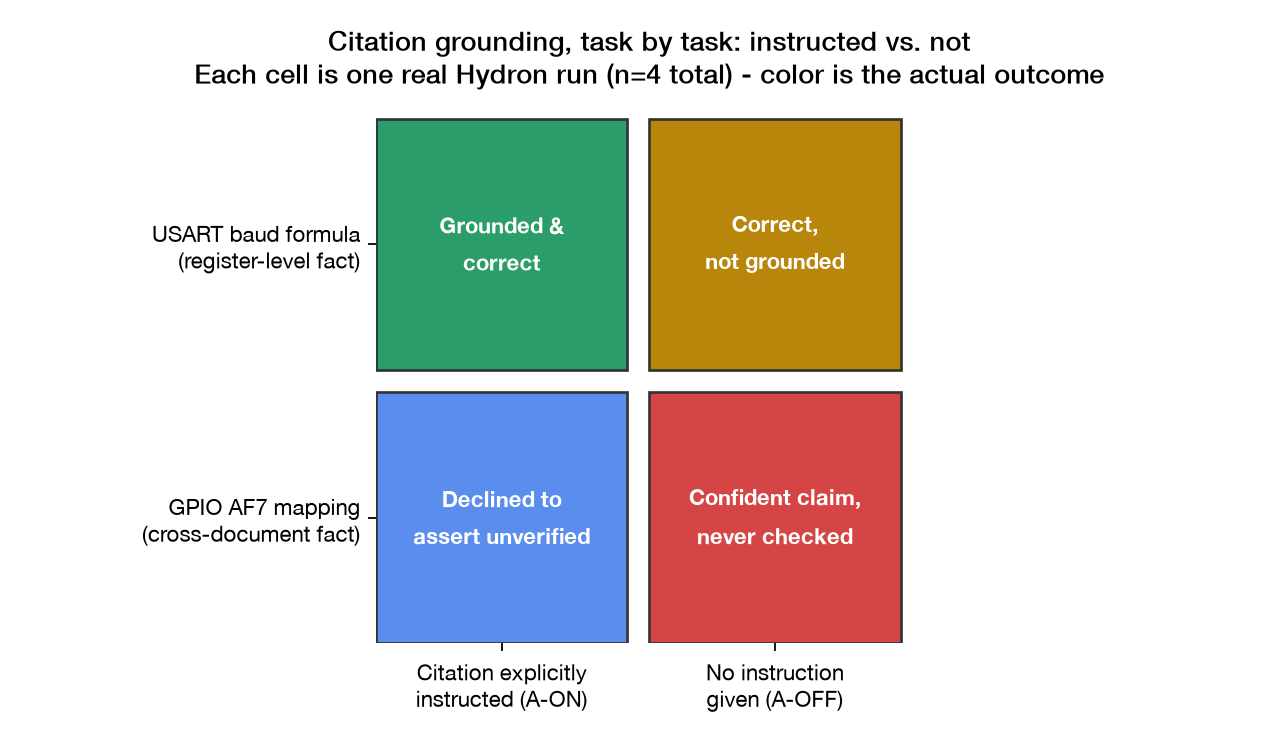
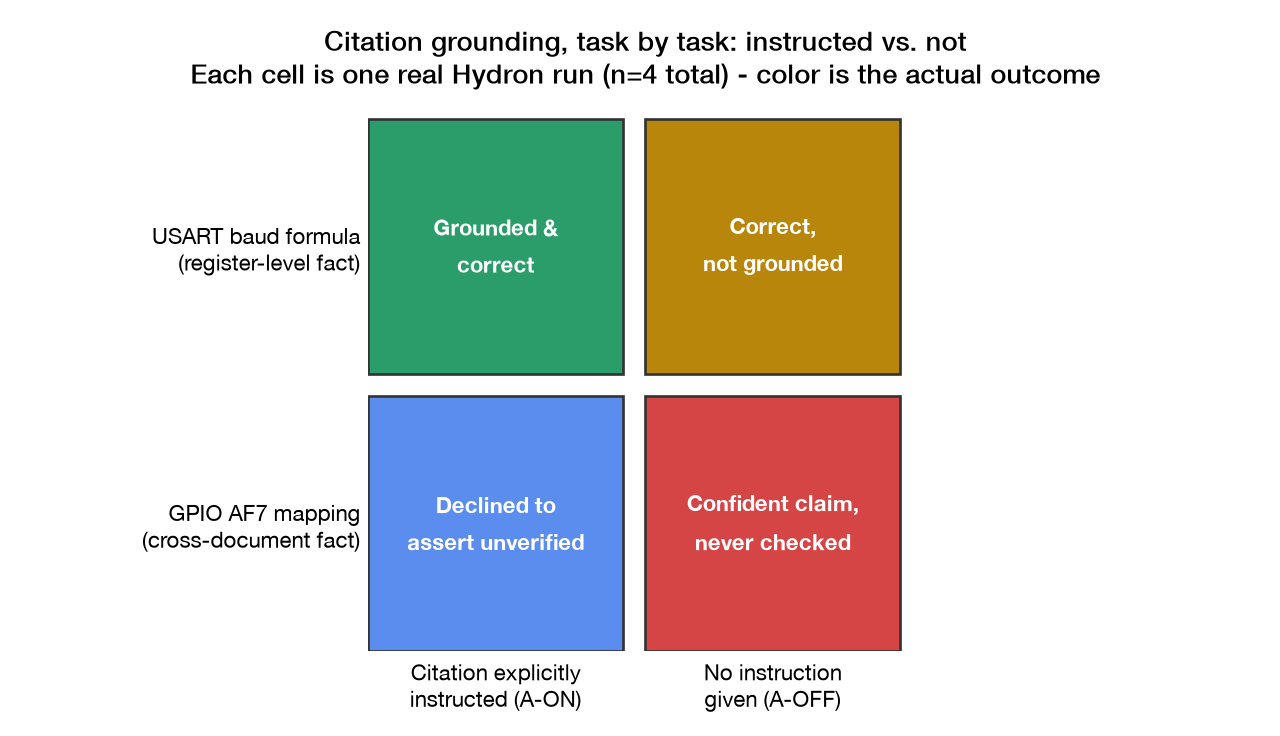
Fix plot legend and layout bugs found on review
Plot 3 had stray tick marks next to its row labels, plot 4's legend was
never rendered despite having labeled bars, and plot 5's legend overlapped
its own n= annotations. Also updates the gitignore comment that referenced
the now-removed figure.png.

Changed region(s): [[0.0938, 0.1562, 0.7188, 0.9688], [0.125, 0.0312, 0.875, 0.125], [0.3438, 0.2812, 0.4375, 0.375]]

diff --git a/stm32-pilot/results/make_plots.py b/stm32-pilot/results/make_plots.py
@@ -22,6 +22,7 @@ from collections import Counter, defaultdict
 import matplotlib
 matplotlib.use("Agg")
 import matplotlib.pyplot as plt
+from matplotlib.patches import Patch
 
 SCRIPT_DIR = os.path.dirname(os.path.abspath(__file__))
 PILOT_ROOT = os.path.dirname(SCRIPT_DIR)
@@ -197,6 +198,7 @@ def main():
                  "Each cell is one real Hydron run (n=4 total) - color is the actual outcome")
     ax.grid(False)
     ax.set_aspect("equal")
+    ax.tick_params(length=0)
     for spine in ax.spines.values():
         spine.set_visible(False)
     fig.tight_layout()
@@ -204,24 +206,32 @@ def main():
     plt.close(fig)
 
     # ---- Plot 4: grounding_class across the WHOLE campaign, original pilot vs expanded ----
+    # Color already encodes category (grounded_correct, etc). A plain legend
+    # from bar labels would just repeat those colors, not explain the
+    # solid-vs-faded distinction. Build a separate, explicit legend for that.
     original_ids = {"S1", "S2", "S3", "S4", "S5", "GenC-ON", "GenC-OFF", "GenD-ON", "GenD-OFF"}
     orig_g = Counter(r["grounding_class"] for r in rows if r["run_id"] in original_ids)
     exp_g = Counter(r["grounding_class"] for r in rows if r["run_id"] not in original_ids)
-    fig, ax = plt.subplots(figsize=(7.5, 4.8))
+    fig, ax = plt.subplots(figsize=(7.5, 5.0))
     x = range(len(gclass_order))
     w = 0.35
     ax.bar([i - w / 2 for i in x], [orig_g.get(g, 0) for g in gclass_order], width=w,
-           label=f"Original pilot (n={sum(orig_g.values())})",
            color=[gclass_colors[g] for g in gclass_order], edgecolor="#333")
     ax.bar([i + w / 2 for i in x], [exp_g.get(g, 0) for g in gclass_order], width=w,
-           label=f"Expanded campaign, in progress (n={sum(exp_g.values())})",
-           color=[gclass_colors[g] for g in gclass_order], alpha=0.45, edgecolor="#333")
+           color=[gclass_colors[g] for g in gclass_order], alpha=0.4, edgecolor="#333")
     ax.set_xticks(list(x))
     ax.set_xticklabels([gclass_labels[g] for g in gclass_order])
     ax.set_ylabel("Count of runs")
-    ax.set_title("Diagnosis/citation quality: original pilot vs. expanded campaign\n"
-                 "'confident_wrong' now also covers harness misdiagnoses, not just citations",
+    ax.set_title("Diagnosis and citation quality: original pilot vs. expanded campaign\n"
+                 "'confident_wrong' also covers harness misdiagnoses, not just citations",
                  fontsize=11)
+    legend_handles = [
+        Patch(facecolor="#999999", edgecolor="#333",
+              label=f"Original pilot (n={sum(orig_g.values())})"),
+        Patch(facecolor="#999999", edgecolor="#333", alpha=0.4,
+              label=f"Expanded campaign (n={sum(exp_g.values())})"),
+    ]
+    ax.legend(handles=legend_handles, frameon=False, loc="upper right", fontsize=9)
     fig.tight_layout()
     fig.savefig(os.path.join(OUT_DIR, "4_pilot_vs_expanded.png"), dpi=160, bbox_inches="tight")
     plt.close(fig)
@@ -255,9 +265,12 @@ def main():
     ax.set_title("Repair verification tier by firmware target\n"
                  "Same L0-L3 defect taxonomy applied to 5 different real example files")
     ax.set_ylim(0, max(target_n.values()) + 1.5)
-    ax.legend(frameon=False, loc="upper right", fontsize=8)
-    fig.tight_layout()
-    fig.savefig(os.path.join(OUT_DIR, "5_by_target.png"), dpi=160)
+    fig.legend(handles=[Patch(facecolor=tier_colors[t], label=tier_labels[t].split("\n")[0])
+                        for t in tier_order],
+               loc="lower center", bbox_to_anchor=(0.5, -0.02), ncol=4, fontsize=8,
+               frameon=False, columnspacing=1.2, handletextpad=0.5)
+    fig.tight_layout(rect=(0, 0.06, 1, 1))
+    fig.savefig(os.path.join(OUT_DIR, "5_by_target.png"), dpi=160, bbox_inches="tight")
     plt.close(fig)
 
     print(f"Wrote 5 plots to {OUT_DIR} from {n_total} logged runs "
